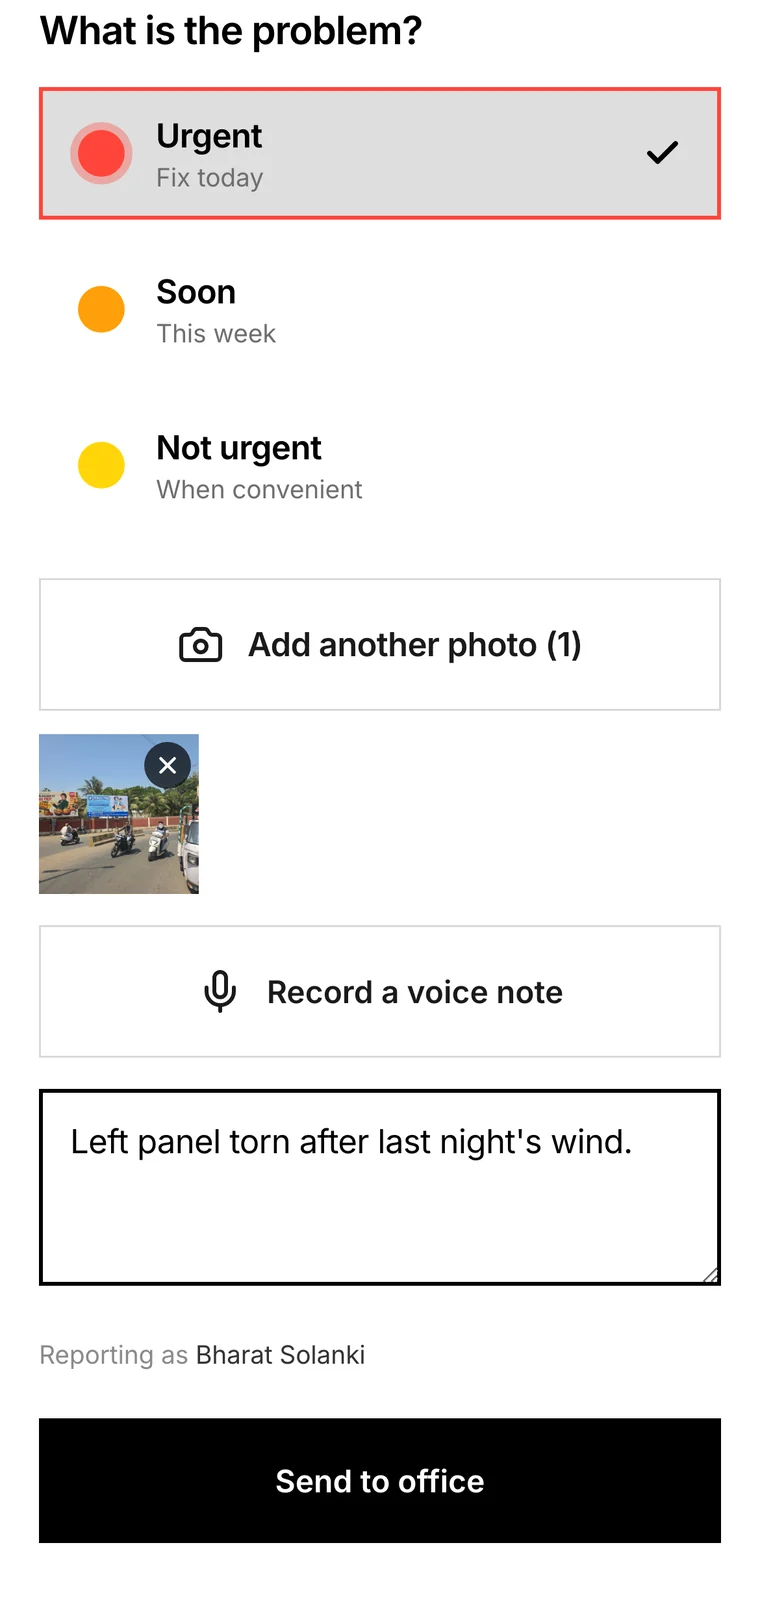
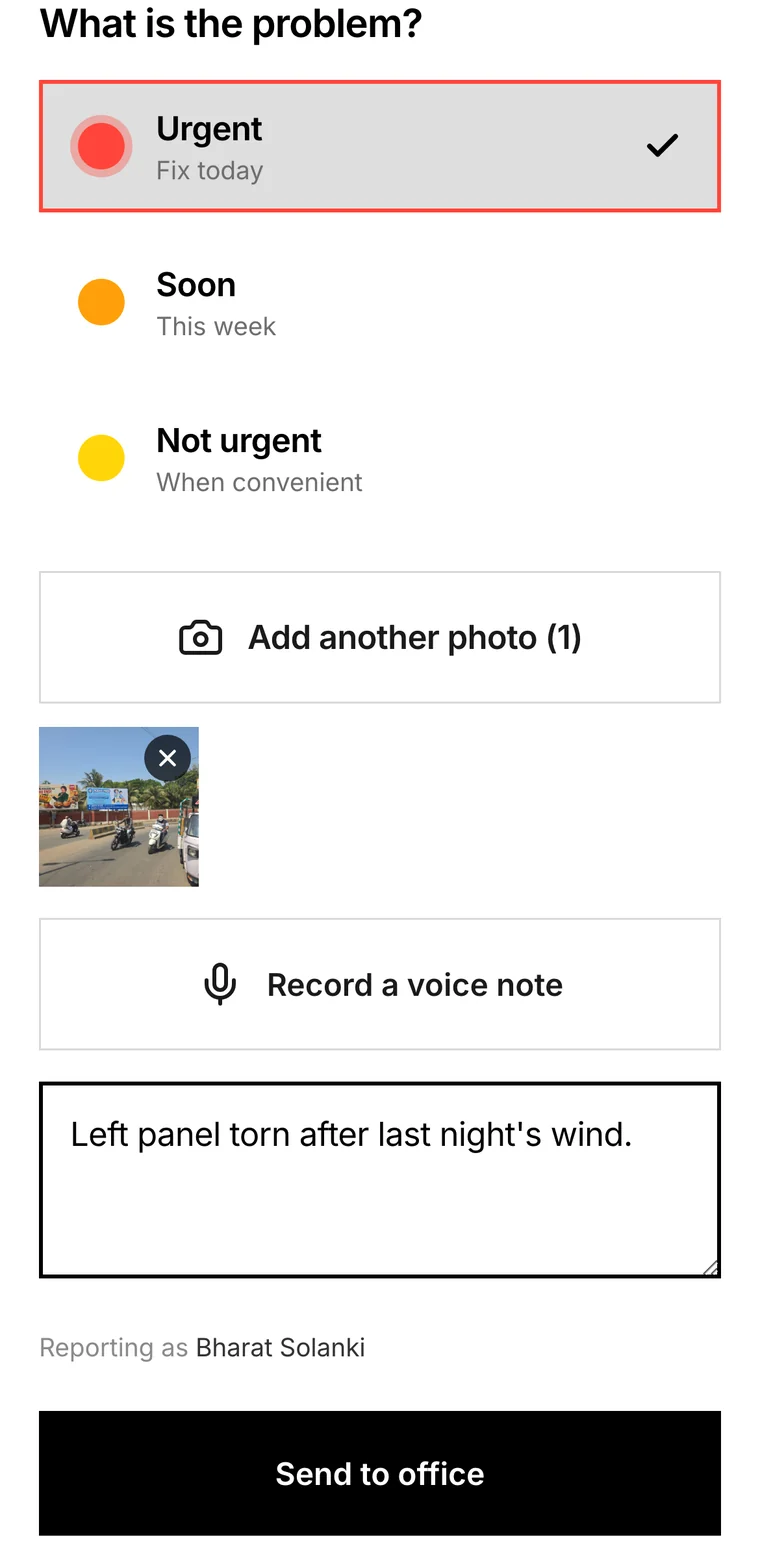
Times Media: the sheet was clamped and the phone's screen rect was a guess
The four copies: img{max-width:100%} in the global reset clamped the sprite
sheet's width:400% back to the container, so all four columns squeezed into
the box. It rendered 835px wide where it needed 3339.

The phone: I eyeballed the screen rectangles on the device mockups instead of
measuring them. The phone's put the screen top at 2.8% where it starts at
7.0%, so a filled screen bled over the bezel. Phone and iPad rects are
measured now, and the capture is re-cropped to the real 0.4869 ratio anchored
on the action bar.

diff --git a/components/Frame.js b/components/Frame.js
@@ -14,8 +14,12 @@ import { Video } from './Media'
 // the very mockups the frames are drawn with (the home page's own set has a
 // different iPad - 1.70 against these 1.53 - which is why they are separate).
 const DEV = {
-  ipad:     { img: 'frame-ipad',     r: 1800 / 1173, screen: [5.5, 6.5, 90.2, 86.6] },
-  phone:    { img: 'frame-phone',    r: 491 / 986,   screen: [6.1, 2.8, 88.6, 94.1] },
+  // The phone and iPad rects are MEASURED off the mockups (the longest run of
+  // near-white per row), not eyeballed. The phone's was badly out - top 2.8%
+  // against a real 7.0%, height 94.1% against 88.74% - so a filled screen bled
+  // over its bezel top and bottom, which is what made it look broken.
+  ipad:     { img: 'frame-ipad',     r: 1800 / 1173, screen: [5.56, 6.48, 90.00, 87.55] },
+  phone:    { img: 'frame-phone',    r: 491 / 986,   screen: [6.92, 7.00, 86.76, 88.74] },
   mac:      { img: 'frame-mac',      r: 1542 / 940,  screen: [10.4, 3.6, 79.4, 84.2] },
   'ipad-p': { img: 'ipad-portrait',  r: 776 / 1128,  screen: [7.35, 4.34, 83.76, 90.34] },
   'ipad-h': { img: 'ipad-landscape', r: 1866 / 1098, screen: [5.31, 7.38, 90.41, 87.52] },

diff --git a/app/globals.css b/app/globals.css
@@ -1371,7 +1371,10 @@ html.intro .hm-band > p{transform:scale(1.18);transition:none}
 /* the sheet is cols x rows of the box and is moved by whole tiles. A
    transform composites; the background-position version repainted a rescaled
    9-megapixel image every frame, which is what felt glitchy. */
-.orbit-sheet{transform-origin:0 0;will-change:transform;image-rendering:auto}
+/* max-width:none is load-bearing: the global `img{max-width:100%}` reset
+   clamps a 400% width straight back to the container, which squeezed all four
+   columns of the sheet into the box side by side. */
+.orbit-sheet{transform-origin:0 0;will-change:transform;max-width:none;max-height:none}
 .orbit.held{cursor:grabbing}
 .orbit:focus-visible{box-shadow:0 0 0 3px #2997FF}
 .orbit-hint{position:absolute;left:50%;bottom:4.5%;translate:-50% 0;

diff --git a/lib/times-copy.js b/lib/times-copy.js
@@ -69,7 +69,7 @@ export const shots = {
   // cropped to exactly the phone screen's 0.469, so it fills rather than
   // rolling 18% and reading as a mistake - the capture is a full-page scroll,
   // taller than any real phone
-  maintPhone: { src: '/media/times-maint-phone.webp', r: 760 / 1621 },
+  maintPhone: { src: '/media/times-maint-phone.webp', r: 760 / 1561 },
   orbit: { src: '/media/times-orbit.webp', poster: '/media/times-orbit-poster.webp',
            frames: 21, cols: 4, tile: '780 / 488',
            alt: 'The view from the Zanzarda Road hoarding - drag to look around' },
